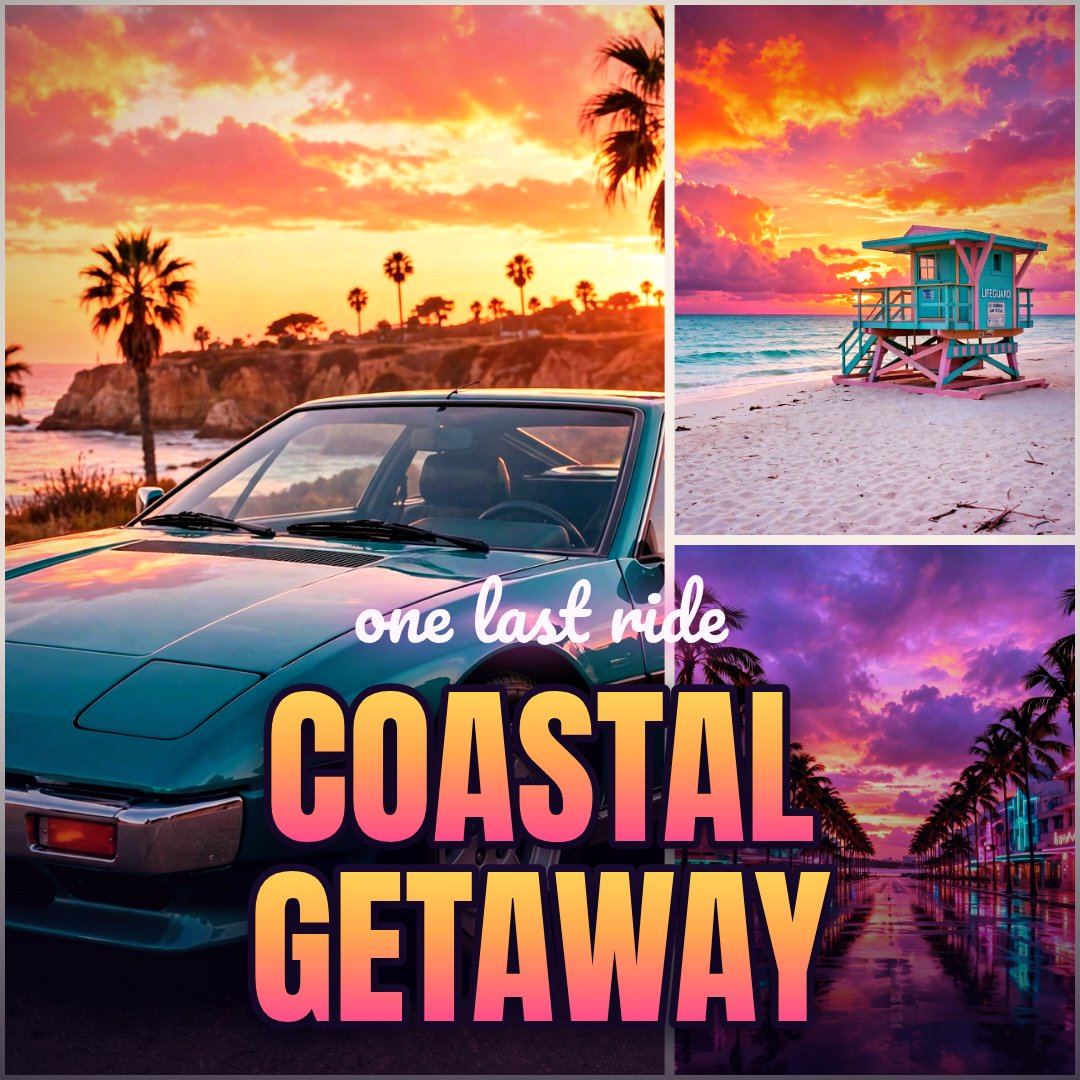
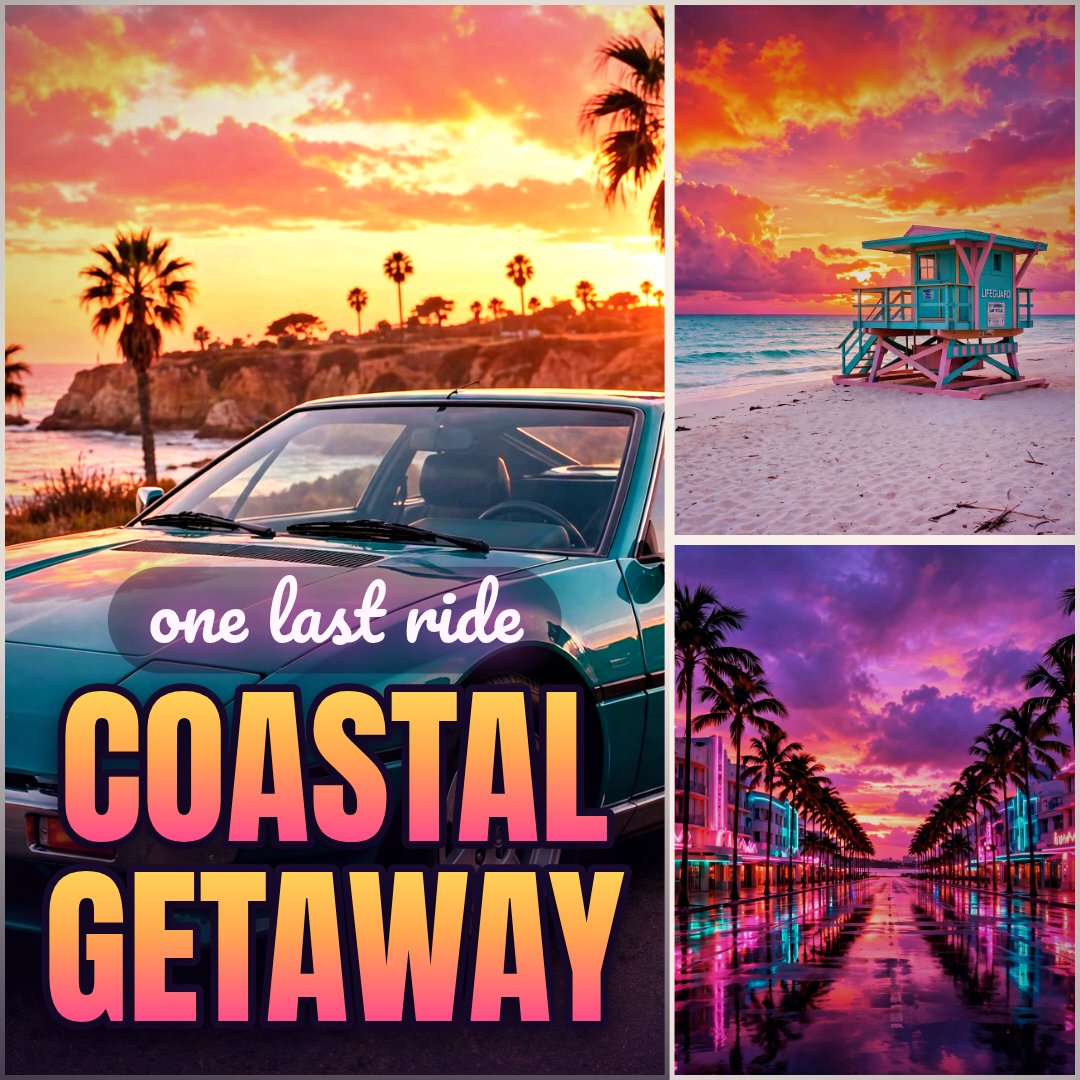
Hero-first revision: fourth sample (motel dusk), caption zones keep the subtitle inside one panel, hero panel focal treatment, new screenshot set with a real editor session

diff --git a/app/src/cover.js b/app/src/cover.js
@@ -148,17 +148,23 @@ export function coverFit(rect, img, zoom, panX, panY) {
   };
 }
 
-/** Draws one panel: its photo (or a sunset placeholder), clipped to the panel. */
-function drawPanel(ctx, rect, img, panel, grade) {
+/** Draws one panel: its photo (or a sunset placeholder), clipped to the panel.
+ *  `tone.boost` appends an extra filter (the hero panel runs brighter);
+ *  `tone.dim` lays a dark veil over the photo (the side panels step back). */
+function drawPanel(ctx, rect, img, panel, grade, tone = {}) {
   ctx.save();
   ctx.beginPath();
   ctx.rect(rect.x, rect.y, rect.w, rect.h);
   ctx.clip();
   if (img) {
     const fit = coverFit(rect, img, panel.zoom, panel.panX, panel.panY);
-    ctx.filter = grade.filter;
+    ctx.filter = grade.filter + (tone.boost ?? '');
     ctx.drawImage(img, fit.x, fit.y, fit.w, fit.h);
     ctx.filter = 'none';
+    if (tone.dim) {
+      ctx.fillStyle = `rgba(8, 2, 20, ${tone.dim})`;
+      ctx.fillRect(rect.x, rect.y, rect.w, rect.h);
+    }
   } else {
     const sky = ctx.createLinearGradient(0, rect.y, 0, rect.y + rect.h);
     sky.addColorStop(0, '#3b1d5e');
@@ -193,46 +199,98 @@ function drawGradeWash(ctx, w, h, grade) {
   ctx.fillRect(0, 0, w, h);
 }
 
-/** A soft dark fade behind the caption so the lettering always reads. */
-function drawCaptionShade(ctx, w, h, position) {
+/** A soft dark fade behind the caption so the lettering always reads.
+ *  Drawn only across the caption's own span (x0..x1): in the hero layout
+ *  that is the big panel alone, so the side panels stay untouched. */
+function drawCaptionShade(ctx, w, h, position, x0 = 0, x1 = w) {
   const depth = h * 0.42;
+  const span = x1 - x0;
   let shade;
   if (position === 'top') {
     shade = ctx.createLinearGradient(0, 0, 0, depth);
     shade.addColorStop(0, 'rgba(12, 4, 28, 0.62)');
     shade.addColorStop(1, 'rgba(12, 4, 28, 0)');
     ctx.fillStyle = shade;
-    ctx.fillRect(0, 0, w, depth);
+    ctx.fillRect(x0, 0, span, depth);
   } else if (position === 'center') {
     shade = ctx.createLinearGradient(0, h / 2 - depth / 2, 0, h / 2 + depth / 2);
     shade.addColorStop(0, 'rgba(12, 4, 28, 0)');
     shade.addColorStop(0.5, 'rgba(12, 4, 28, 0.5)');
     shade.addColorStop(1, 'rgba(12, 4, 28, 0)');
     ctx.fillStyle = shade;
-    ctx.fillRect(0, h / 2 - depth / 2, w, depth);
+    ctx.fillRect(x0, h / 2 - depth / 2, span, depth);
   } else {
     shade = ctx.createLinearGradient(0, h - depth, 0, h);
     shade.addColorStop(0, 'rgba(12, 4, 28, 0)');
     shade.addColorStop(1, 'rgba(12, 4, 28, 0.66)');
     ctx.fillStyle = shade;
-    ctx.fillRect(0, h - depth, w, depth);
+    ctx.fillRect(x0, h - depth, span, depth);
   }
 }
 
 /**
+ * Where the caption may sit, per layout: a centre x and a max width for
+ * the big title and for the script subtitle, plus the shade's span. The
+ * subtitle is kept inside one panel's span so it never straddles a
+ * gutter line; in the hero layout the whole caption — shade included —
+ * lives on the big panel. The title re-typesets to its zone on every
+ * canvas size, so each export size gets its own fitting.
+ */
+function captionZones(layoutKey, w) {
+  const full = { cx: w / 2, maxW: w * 0.92 };
+  if (layoutKey === 'hero') {
+    const heroW = LAYOUTS.hero.panels[0].w * w;
+    const zone = { cx: heroW / 2, maxW: heroW * 0.92 };
+    return { title: zone, subtitle: zone, shade: { x0: 0, x1: heroW } };
+  }
+  if (layoutKey === 'strips') {
+    return { title: full, subtitle: { cx: w / 2, maxW: (w / 3) * 0.94 }, shade: { x0: 0, x1: w } };
+  }
+  if (layoutKey === 'grid') {
+    return { title: full, subtitle: { cx: w * 0.25, maxW: w * 0.5 * 0.92 }, shade: { x0: 0, x1: w } };
+  }
+  return { title: full, subtitle: full, shade: { x0: 0, x1: w } };
+}
+
+/** A soft dark backdrop behind the script subtitle, so it always sits on
+ *  a clean patch of poster however busy the photo underneath is. */
+function drawSubtitleBackdrop(ctx, cx, baselineY, textW, subSize) {
+  const padX = subSize * 0.55;
+  const padTop = subSize * 1.05;
+  const padBottom = subSize * 0.42;
+  const x = cx - textW / 2 - padX;
+  const y = baselineY - padTop;
+  const bw = textW + padX * 2;
+  const bh = padTop + padBottom;
+  ctx.save();
+  ctx.shadowColor = 'rgba(12, 4, 28, 0.55)';
+  ctx.shadowBlur = subSize * 0.5;
+  ctx.fillStyle = 'rgba(12, 4, 28, 0.38)';
+  ctx.beginPath();
+  if (typeof ctx.roundRect === 'function') ctx.roundRect(x, y, bw, bh, bh / 2);
+  else ctx.rect(x, y, bw, bh);
+  ctx.fill();
+  ctx.restore();
+}
+
+/**
  * Draws the caption: the script subtitle glowing over the big display
- * title. The title auto-fits to 92% of the poster width, then the size
- * slider scales it; long titles wrap onto two lines.
+ * title. Both are typeset into their layout zone (see captionZones) and
+ * fitted to the canvas at hand, so every export size re-typesets from
+ * scratch. The title auto-fits its zone width, then the size slider
+ * scales it; long titles wrap onto two lines. The subtitle shrinks to
+ * its own zone so it stays inside one panel, on its clean backdrop.
  */
 function drawCaption(ctx, w, h, state) {
   const title = (state.title ?? '').trim().toUpperCase();
   const subtitle = (state.subtitle ?? '').trim();
   if (!title && !subtitle) return;
-  drawCaptionShade(ctx, w, h, state.captionPos);
+  const zones = captionZones(state.layout, w);
+  drawCaptionShade(ctx, w, h, state.captionPos, zones.shade.x0, zones.shade.x1);
 
   const scale = state.captionSize ?? 1;
   let size = Math.min(w, h) * 0.16 * scale;
-  const maxWidth = w * 0.92;
+  const maxWidth = zones.title.maxW;
   const setTitleFont = (s) => { ctx.font = `${s}px Anton, sans-serif`; };
 
   // Wrap the title onto at most two lines, shrinking until it fits.
@@ -257,7 +315,15 @@ function drawCaption(ctx, w, h, state) {
   }
 
   const lineHeight = size * 1.04;
-  const subSize = Math.max(18, size * 0.42);
+  let subSize = Math.max(18, size * 0.42);
+  if (subtitle) {
+    ctx.font = `${subSize}px Pacifico, cursive`;
+    const subW = ctx.measureText(subtitle).width;
+    if (subW > zones.subtitle.maxW) {
+      subSize = Math.max(14, subSize * (zones.subtitle.maxW / subW));
+      ctx.font = `${subSize}px Pacifico, cursive`;
+    }
+  }
   const blockH = (title ? lines.length * lineHeight : 0) + (subtitle ? subSize * 1.25 : 0);
   const margin = h * 0.055;
   let top;
@@ -272,11 +338,12 @@ function drawCaption(ctx, w, h, state) {
   if (subtitle) {
     ctx.font = `${subSize}px Pacifico, cursive`;
     y += subSize;
+    drawSubtitleBackdrop(ctx, zones.subtitle.cx, y, ctx.measureText(subtitle).width, subSize);
     ctx.save();
     ctx.shadowColor = '#ff4dd8';
     ctx.shadowBlur = subSize * 0.55;
     ctx.fillStyle = '#fff6ff';
-    ctx.fillText(subtitle, w / 2, y);
+    ctx.fillText(subtitle, zones.subtitle.cx, y);
     ctx.restore();
     y += subSize * 0.25;
   }
@@ -295,9 +362,9 @@ function drawCaption(ctx, w, h, state) {
       ctx.lineJoin = 'round';
       ctx.strokeStyle = '#1a0b2e';
       ctx.lineWidth = Math.max(2, size * 0.09);
-      ctx.strokeText(line, w / 2, y);
+      ctx.strokeText(line, zones.title.cx, y);
       ctx.fillStyle = grad;
-      ctx.fillText(line, w / 2, y);
+      ctx.fillText(line, zones.title.cx, y);
       ctx.restore();
     }
   }
@@ -318,11 +385,15 @@ export function drawCover(canvas, state, forExport = false) {
   ctx.fillRect(0, 0, w, h);
 
   const count = LAYOUTS[state.layout].panels.length;
+  const heroLayout = state.layout === 'hero';
   for (let i = 0; i < count; i++) {
     const rect = panelRect(state.layout, i, w, h);
     const panel = state.panels[i] ?? freshPanel(0);
     const img = state.photos[panel.photo] ?? state.photos[0] ?? null;
-    drawPanel(ctx, rect, img, panel, grade);
+    // In the hero layout the big panel is the poster's focal point: it
+    // runs a touch brighter while the side panels step back under a veil.
+    const tone = heroLayout ? (i === 0 ? { boost: ' brightness(1.07)' } : { dim: 0.13 }) : {};
+    drawPanel(ctx, rect, img, panel, grade, tone);
   }
 
   drawGradeWash(ctx, w, h, grade);

diff --git a/main.ts b/main.ts
@@ -1,7 +1,7 @@
 // Neon Sunset Cover Studio — the hand-in program for gta6-cover-art-01 (Node 22, standard library only).
 //
 // The entry is the app/ folder beside this file: a static, offline web app (app/index.html plus its ES modules,
-// two OFL display fonts under app/fonts/, and three sample photos under app/samples/) that turns a person's own
+// two OFL display fonts under app/fonts/, and four sample photos under app/samples/) that turns a person's own
 // photos and a caption into multi-panel, sunset-graded cover art and exports it as a PNG at 1080 x 1080,
 // 1080 x 1350 or 1920 x 1080. This program copies app/ and screenshots/ into /output and writes
 // /output/dossier.json with the kit's buildDossier, exactly as the starter's plumbing did.

diff --git a/app/index.html b/app/index.html
@@ -24,6 +24,7 @@
         <button type="button" data-sample="boulevard">Boulevard</button>
         <button type="button" data-sample="beach">Beach</button>
         <button type="button" data-sample="car">Coastal car</button>
+        <button type="button" data-sample="motel">Motel dusk</button>
       </div>
       <div id="thumbs" class="thumbs" aria-label="Loaded photos"></div>
       <div class="row">

diff --git a/README.md b/README.md
@@ -10,7 +10,7 @@ sunset or neon colour wash — and exports it as a PNG ready to post.
 
 - **Any photo, several panels.** Add photos from your own machine (they
   are read locally with FileReader and never uploaded), or start from the
-  three built-in samples. One photo can fill every panel, or each panel
+  four built-in samples. One photo can fill every panel, or each panel
   can carry its own.
 - **Four poster layouts.** 2 × 2 grid, hero + two, three vertical strips,
   and full bleed, all with the thin white gutters of a game box.
@@ -51,7 +51,7 @@ writes `dossier.json` with the kit's `buildDossier`.
 
 - Original throughout: no Rockstar Games logo, wordmark, artwork,
   characters or fonts anywhere in the app or its output.
-- The three sample photos in `app/samples/` were made with an image
+- The four sample photos in `app/samples/` were made with an image
   model for this app and are free to use.
 - Everything the page loads is a file under `app/`; it works fully
   offline in desktop Chrome.
